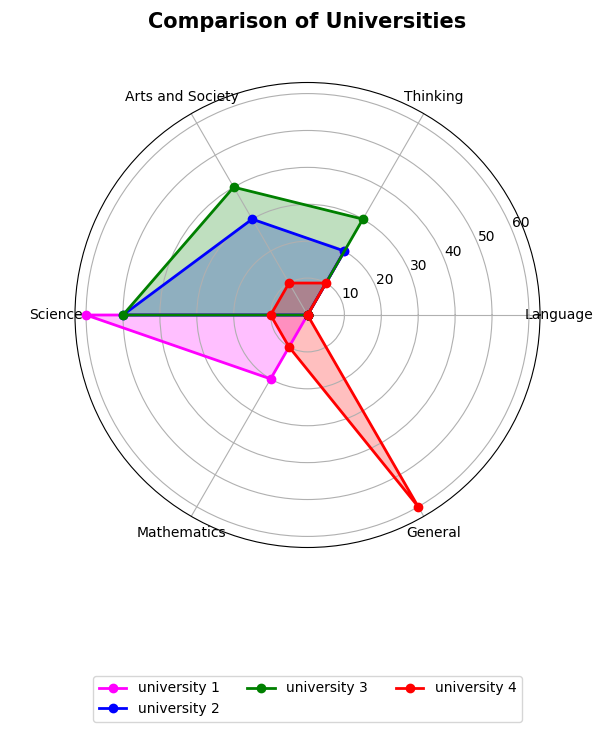
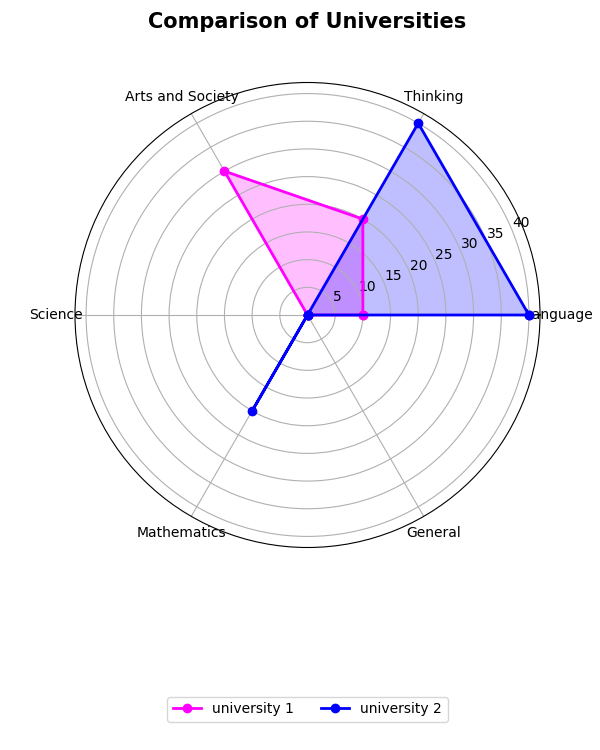
ติดอยู่ตรงนี้ครับ

diff --git a/New/templates/index.html b/New/templates/index.html
@@ -1,0 +1,69 @@
+<!DOCTYPE html>
+<html lang="en">
+<head>
+    <meta charset="UTF-8">
+    <title>เลือกแถว</title>
+</head>
+<body>
+    <h1>เลือกแถว</h1>
+    <form method="POST">
+        <label for="selected_row">เลือกแถว:</label>
+        <select name="selected_row" id="selected_row">
+            <option value="">-- เลือกค่าทั้งหมด --</option>
+            {% for row in data %}
+                <option value="{{ loop.index0 }}">{{ row['สถาบัน'] }} - {{ row['วิทยาเขต'] }} - {{ row['คณะ/สำนักวิชา'] }}- {{ row['ชื่อหลักสูตร']}}- {% if row['รายละเอียด'] == 0 %} {% else %}{{ row['รายละเอียด'] }}{% endif %}</option>
+            {% endfor %}
+        </select>
+        <input type="submit" value="แสดงข้อมูล" {% if not allow_selection %}disabled{% endif %}>
+    </form>
+    
+
+    <!-- เพิ่มตารางแสดงรายการที่ถูกเลือก -->
+{% if selected_row %}
+<h2>รายการที่เลือก</h2>
+<ul>
+    {% for row in selected_row %}
+    <li>{{ row }}</li>
+    {% endfor %}
+</ul>
+{% endif %}
+
+    
+    
+
+    
+
+
+    {% if selected_data %}
+    <h2>ข้อมูลที่เลือก</h2>
+    <table>
+        <tr>
+            <th>สถาบัน</th>
+            <th>วิทยาเขต</th>
+            <th>คณะ/สำนักวิชา</th>
+            <th>ชื่อหลักสูตร</th>
+            <th>รายละเอียด</th>
+            <th>Language</th>
+            <th>Thinking</th>
+            <th>Arts and Society</th>
+            <th>Science</th>
+            <th>Mathematics</th>
+            <th>General</th>
+        </tr>
+        <tr>
+            <td>{{ selected_data['สถาบัน'] }}</td>
+            <td>{{ selected_data['วิทยาเขต'] }}</td>
+            <td>{{ selected_data['คณะ/สำนักวิชา'] }}</td>
+            <td>{{ selected_data['ชื่อหลักสูตร'] }}</td>
+            <td>{% if selected_data['รายละเอียด'] == 0 %} {% else %}{{ selected_data['รายละเอียด'] }}{% endif %}</td>
+            <td>{{ selected_data['Language'] }}</td>
+            <td>{{ selected_data['Thinking'] }}</td>
+            <td>{{ selected_data['Arts and Society'] }}</td>
+            <td>{{ selected_data['Science'] }}</td>
+            <td>{{ selected_data['Mathematics'] }}</td>
+            <td>{{ selected_data['General'] }}</td>
+        </tr>
+    </table>
+    {% endif %}
+</body>
+</html>

diff --git a/New/app.py b/New/app.py
@@ -1,0 +1,78 @@
+from flask import Flask, render_template, request
+import pandas as pd
+
+app = Flask(__name__)
+
+selected_rows = []  # เก็บรายการแถวที่ถูกเลือก
+ListU_Name = []  # เก็บรายการข้อมูลที่ถูกเลือกในรูปแบบของสตริง
+ListU_Score = []
+
+@app.route('/', methods=['GET', 'POST'])
+def index():
+    global selected_rows, ListU_Name, ListU_Score
+
+    if request.method == 'POST':
+        selected_row = int(request.form['selected_row'])  # เลือกแถวที่ผู้ใช้เลือก
+
+        # อ่านข้อมูลจากไฟล์ Excel
+        df = pd.read_excel('Processed_Data.xlsx')  # แทนชื่อไฟล์ตามที่คุณต้องการ
+
+        # ดึงข้อมูลจากแถวที่ถูกเลือก
+        selected_data = df.iloc[selected_row]
+
+        # สร้างสตริงเพื่อรวมข้อมูลในคอลัมน์ที่ต้องการ
+        selected_info = (
+            f"ลำดับ: {len(ListU_Name) + 1}\n"
+            f"สถาบัน: {selected_data['สถาบัน']}\n"
+            f"วิทยาเขต: {selected_data['วิทยาเขต']}\n"
+            f"คณะ/สำนักวิชา: {selected_data['คณะ/สำนักวิชา']}\n"
+            f"ชื่อหลักสูตร: {selected_data['ชื่อหลักสูตร']}\n"
+            f"รายละเอียด: {selected_data['รายละเอียด']}"
+        )
+
+        # เพิ่มข้อมูลในรายการ ListU_Name
+        ListU_Name.append(selected_info)
+
+        # อ่านคะแนนจากคอลัมน์และเพิ่มใน ScoreGroup
+        LangScr = selected_data['Language']
+        ThinkScr = selected_data['Thinking']
+        ArtScr = selected_data['Arts and Society']
+        SciScr = selected_data['Science']
+        MathScr = selected_data['Mathematics']
+        GenScr = selected_data['General']
+
+        ScoreGroup = []
+        ScoreGroup.append(LangScr)
+        ScoreGroup.append(ThinkScr)
+        ScoreGroup.append(ArtScr)
+        ScoreGroup.append(SciScr)
+        ScoreGroup.append(MathScr)
+        ScoreGroup.append(GenScr)
+
+        # เพิ่ม ScoreGroup ใน ListU_Score
+        ListU_Score.append(ScoreGroup)
+
+        # จำกัดจำนวนแถวที่เก็บใน ListU_Name เพื่อไม่ให้เกิน 10 รายการ
+        if len(ListU_Name) > 10:
+            ListU_Name = ListU_Name[-10:]  # เก็บเฉพาะ 10 รายการล่าสุด
+        print(ListU_Name)
+        print(ListU_Score)
+
+    # ตรวจสอบว่า ListU_Score มี 10 รายการขึ้นไปหรือไม่
+    if len(ListU_Score) >= 10:
+        return render_template('radar_image.html', universities=ListU_Name, ListU_Score=ListU_Score)
+
+    # อ่านข้อมูลจากไฟล์ Excel เพื่อสร้างเมนู dropdown
+    df = pd.read_excel('Processed_Data.xlsx')  # แทนชื่อไฟล์ตามที่คุณต้องการ
+    data = df.to_dict(orient='records')  # แปลงข้อมูลเป็นรายการของพจนานุกรม
+
+    # ตรวจสอบว่าเลือกได้หรือไม่
+    allow_selection = len(ListU_Name) < 10  # อนุญาตให้เลือกเมื่อไม่เกิน 10 รายการ
+
+    # ส่งข้อมูลไปยัง HTML พร้อมกับรายการที่ถูกเลือกและสถานะการเลือก
+    return render_template('index.html', data=data, selected_row=ListU_Name, allow_selection=allow_selection)
+
+
+
+if __name__ == '__main__':
+    app.run(debug=True)
